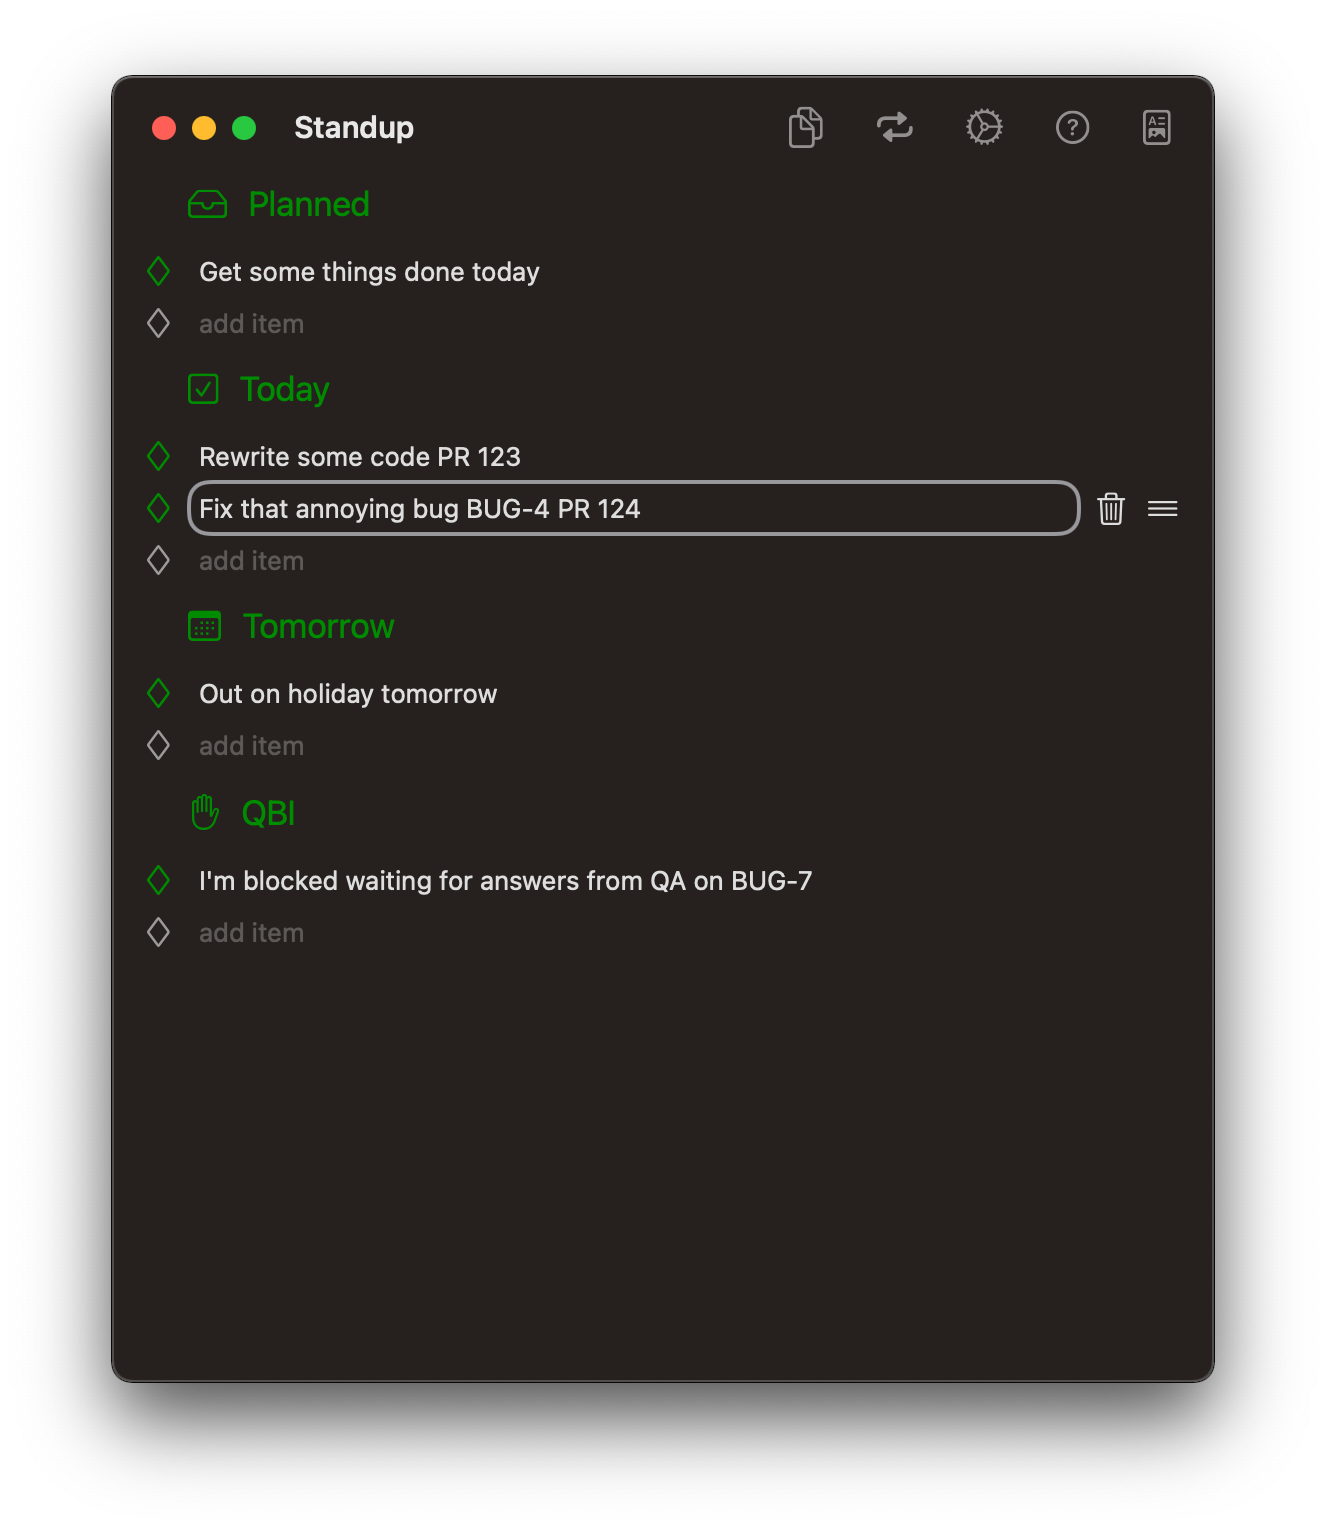
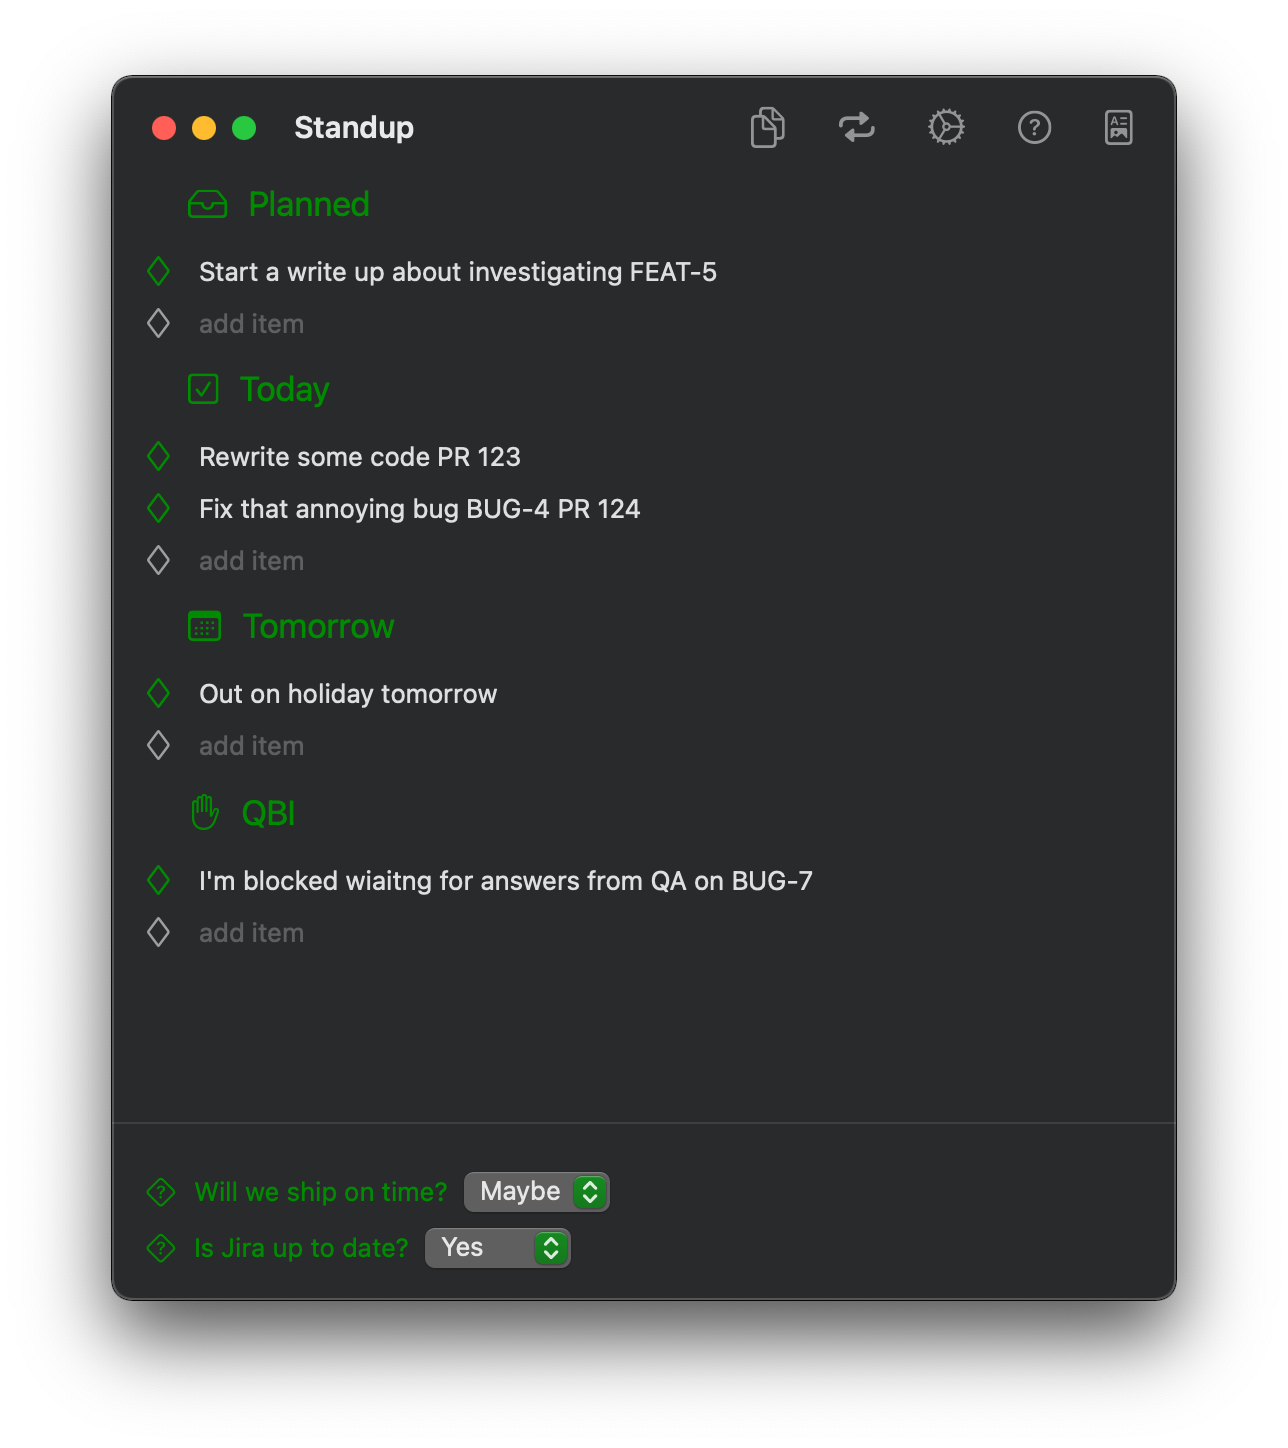
Update readme

Changed region(s): [[0.0621, 0.0311, 0.9317, 0.9012]]

diff --git a/Readme.md b/Readme.md
@@ -3,9 +3,11 @@
 
 ![Screenshot](Screenshot.png)
 
-This is a small application for MacOS that may help you keep track of notes for your daily standup. Especcially if your standups are conducted asynchronously via Email, Slack, etc.
+This is a small application for MacOS that may help you keep track of notes for your daily standup. 
+Especially if your standups are conducted asynchronously via Email, Slack, etc.
+It runs as a menu bar application, so it doesn't clutter your dock.
 
-The screenshot above will produce a message ready to paste into your standup thread:
+The screenshot above will produce a message ready to paste into your standup thread, similar to this:
 
 > **Today:**  
 > ✅ Rewrite some code PR 123  
@@ -13,13 +15,19 @@ The screenshot above will produce a message ready to paste into your standup thr
 > **Tomorrow:**  
 > ➡ Out on holiday tomorrow  
 > **QBI:**  
-> ⁉ I'm blocked waiting for answers from QA on BUG-7
+> ⁉ I'm blocked waiting for answers from QA on BUG-7  
+> **Will we ship on time?** 🤷  
+> **Is Jira up to date?** ✅  
 
 ## Features
 * Sections for planning, today, tomorrow, questions/blockers/interesting
 * Auto-linking to pull requests and Jira issues
-* Drag items to reorder, and between sections
+* Drag items to reorder, even between sections
 * Customizable reset behavior. By default, anything set for "Tomorrow" becomes "Planned"
+* A few choices for section headers.
+    * If you post standups in the evening, you can use Today/Tomorrow
+    * If you post standups in the morning, you can use Yesterday/Today
+* Define your own Yes/No questions to be included at the bottom of a standup report
 
 ## Build
 1. Open the xcode project (Big sur required)
